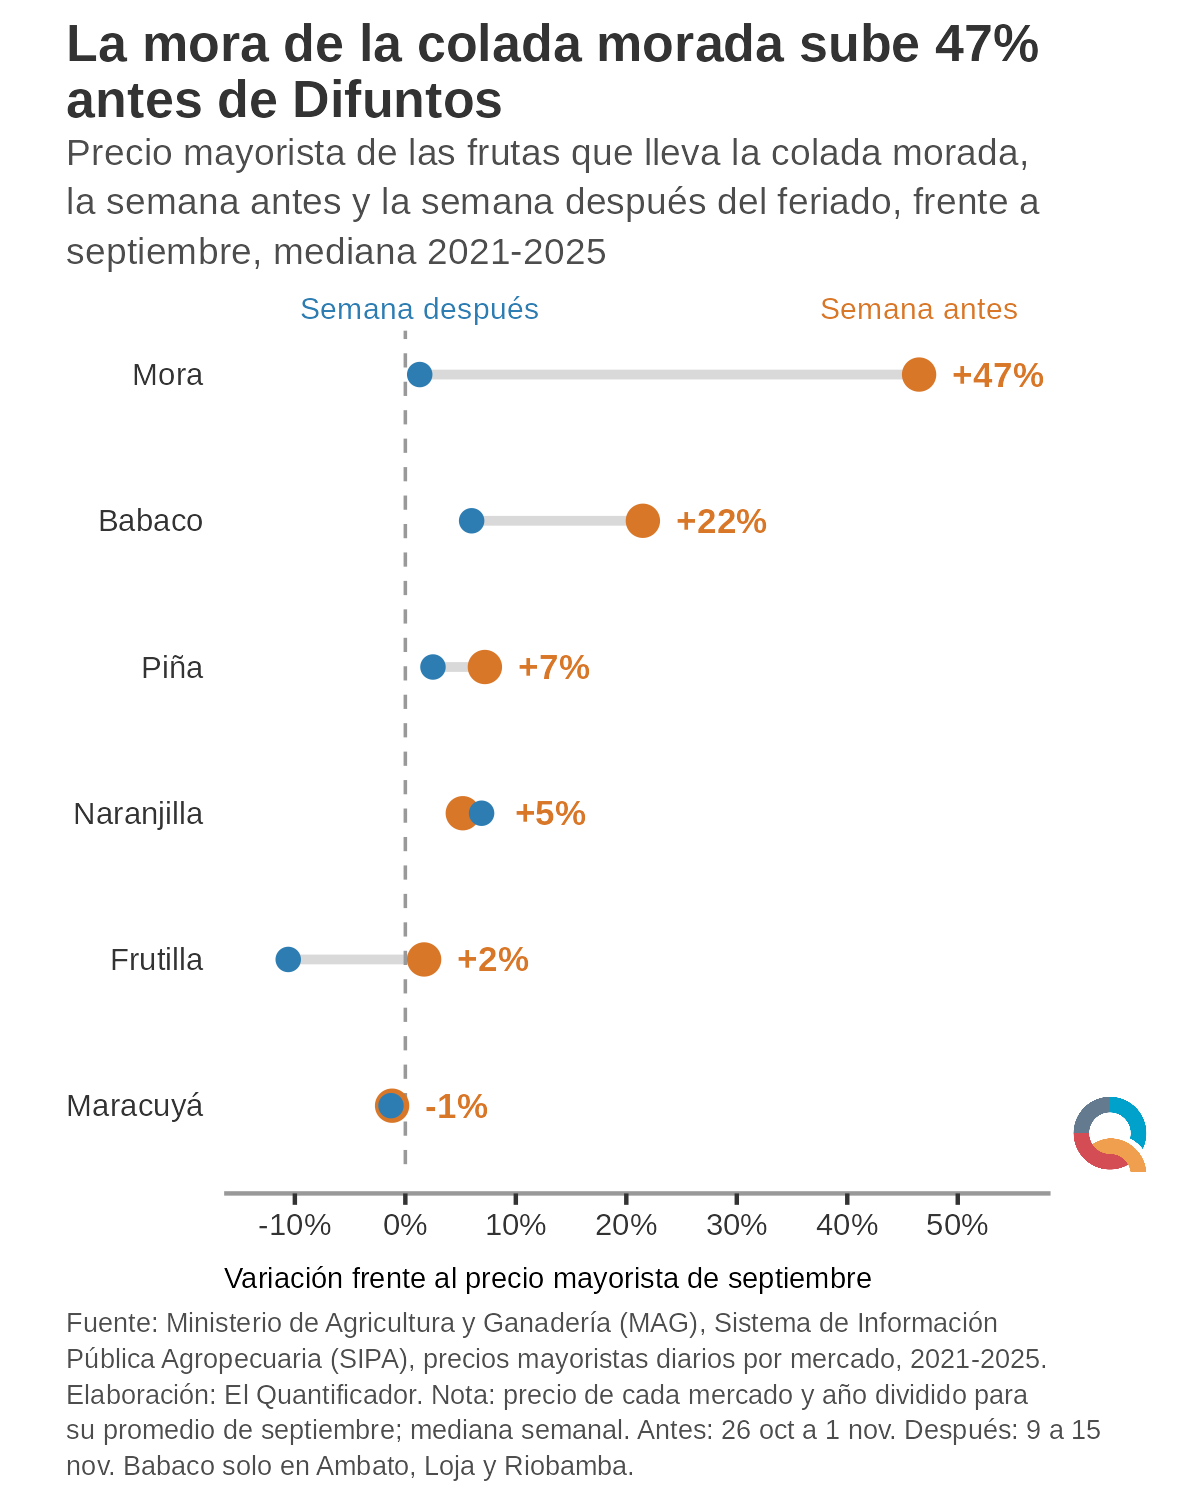
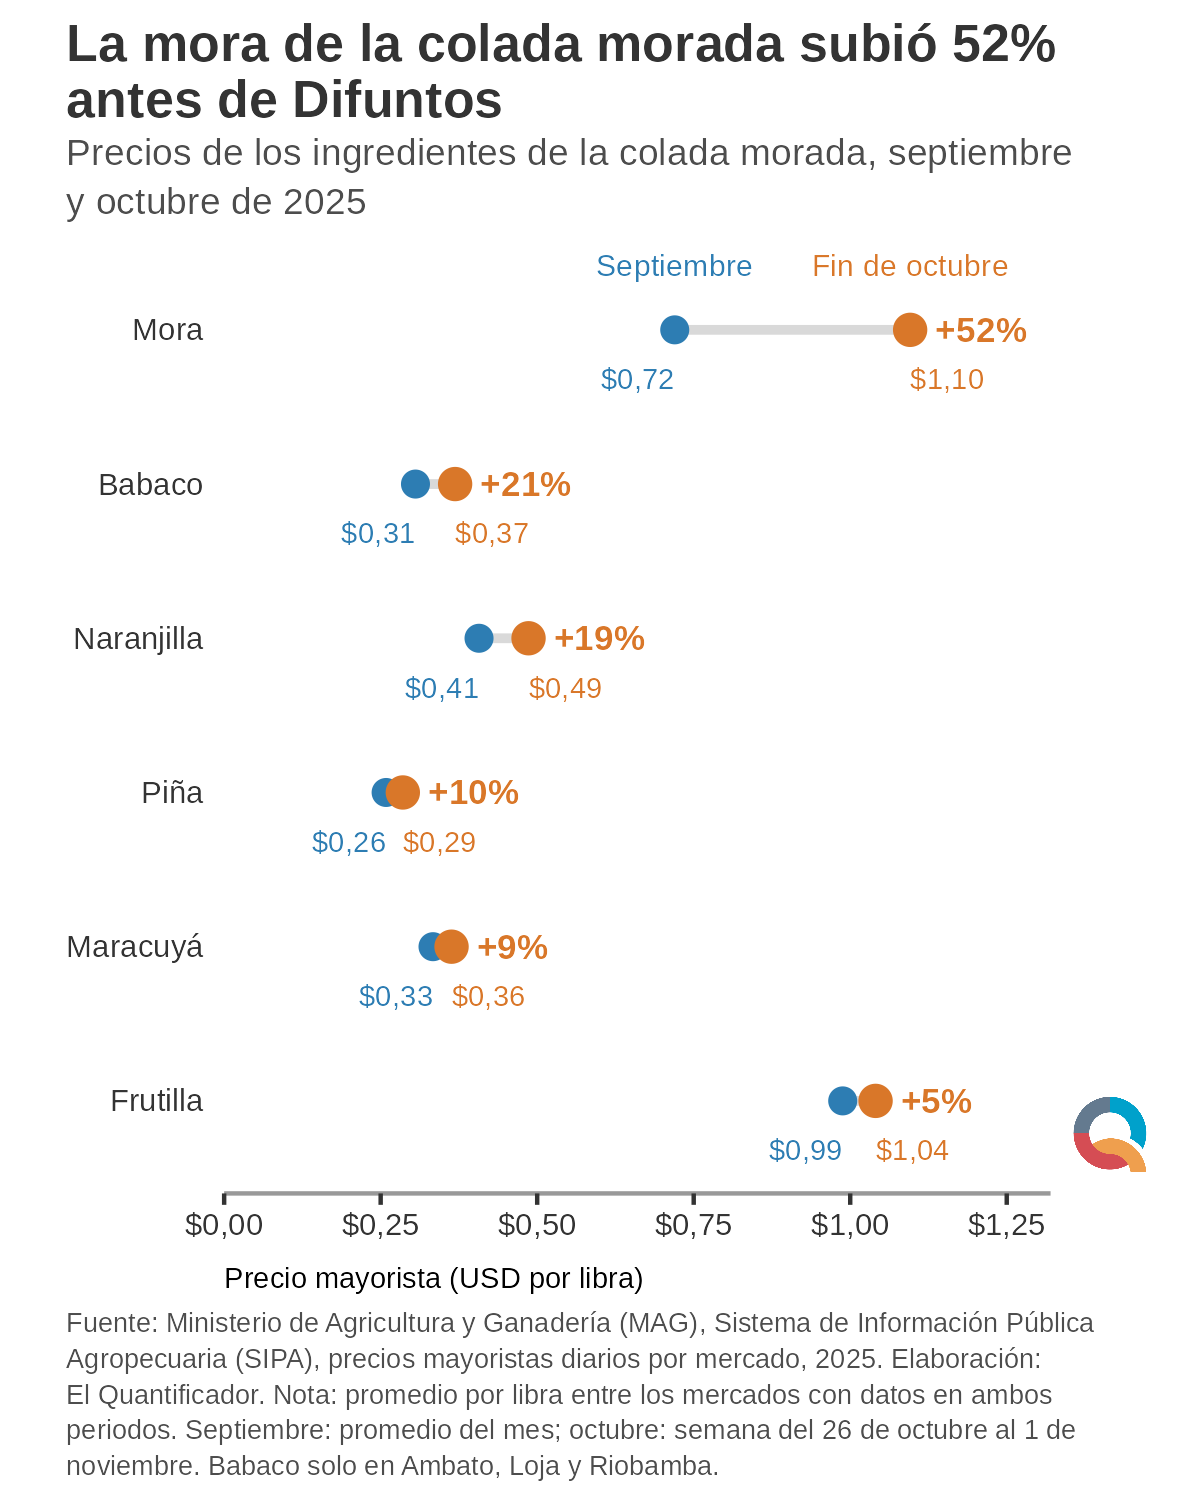
52_b: precios en dólares por libra, septiembre vs. fin de octubre de 2025
Claude-Session: https://claude.ai/code/session_01MVqtYLyfFuBw18yHFufz3P

diff --git a/data/sources/colada_morada.md b/data/sources/colada_morada.md
@@ -37,16 +37,27 @@ Costo por litro de colada morada hecha en casa y comprada en panadería.
 
 El gráfico muestra la más barata, la mediana y la más cara. Los precios en apps de reparto pueden incluir recargo.
 
-## `sipa_semana_difuntos_2021_2025.csv` (gráfico 52_b)
+## `sipa_precios_sep_oct_2025.csv` (gráfico 52_b)
 
-**Proveedor:** Ministerio de Agricultura y Ganadería (MAG), Sistema de Información Pública Agropecuaria (SIPA), precios mayoristas diarios por mercado. Compilación diaria del repositorio público `alexeperez/precios-agro-ecuador`, desde enero de 2021.
+**Proveedor:** Ministerio de Agricultura y Ganadería (MAG), Sistema de Información Pública Agropecuaria (SIPA), precios mayoristas diarios por mercado. Compilación diaria del repositorio público `alexeperez/precios-agro-ecuador`.
 
 **Productos:** mora de Castilla (251), babaco (275), piña (270), naranjilla híbrida (266), frutilla (248) y maracuyá (263).
 
 **Cálculo:**
 
-1. Para cada producto, mercado y año (2021-2025), cada precio diario por kilo se divide para el promedio de septiembre de ese mercado y año.
-2. Se toma la mediana de esa razón en la semana antes del feriado (26 de octubre a 1 de noviembre) y en la semana del 9 al 15 de noviembre.
-3. `antes` y `despues` son esa mediana menos 1.
+1. Para cada producto y mercado, se promedia el precio por kilo de septiembre de 2025 y el de la semana del 26 de octubre al 1 de noviembre de 2025.
+2. Se conservan solo los mercados con datos en ambos periodos.
+3. Se promedian los mercados y se convierte a dólares por libra (1 kg = 2,20462 lb). `cambio` es la variación entre ambos promedios.
 
-La mora subió la semana previa en todos los años: +46% (2021), +37% (2022), +44% (2023), +16% (2024) y +79% (2025). El babaco solo se registra en Ambato, Loja y Riobamba.
+| Fruta | Mercados | Septiembre (USD/lb) | Fin de octubre (USD/lb) | Cambio |
+|---|---|---|---|---|
+| Mora | 10 | 0,72 | 1,10 | +52% |
+| Babaco | 3 | 0,31 | 0,37 | +21% |
+| Naranjilla | 11 | 0,41 | 0,49 | +19% |
+| Piña | 7 | 0,26 | 0,29 | +10% |
+| Maracuyá | 13 | 0,33 | 0,36 | +9% |
+| Frutilla | 10 | 0,99 | 1,04 | +5% |
+
+Se usa 2025 porque los datos de octubre de 2026 están incompletos: la mora solo tiene un mercado y el babaco y la piña no tienen registros ese mes.
+
+Contexto adicional: con la mediana de 2021 a 2025, la mora sube cada año la semana previa al feriado (+46% en 2021, +37% en 2022, +44% en 2023, +16% en 2024 y +79% en 2025, frente a su promedio de septiembre por mercado).

diff --git a/data/sources/README.md b/data/sources/README.md
@@ -79,7 +79,7 @@ Las fichas `.md` de cada fuente documentan la version, el archivo interno utiliz
 | PISA Ecuador, PISA-D 2017 y PISA 2025 | `pisa_ecuador/pisa_ecuador_mean_scores.csv`, `pisa_ecuador/pisa_2025_tables_ib1_2a_36_38.xlsx`, `pisa_ecuador/pisa_participation_by_cycle.xlsx` | Usado en `clean_pisa_ecuador_puntajes.R` y `plot_45_pisa_ecuador_puntajes.R` | `pisa_ecuador.md` |
 | REMD 2020-2025, cohorte de matrimonios inscritos en 2020 | `remd_matrimonios/cohort_2020_survival_input.csv` | Usado en `clean_remd_matrimonios_hijos.R` y `plot_48_remd_matrimonios_hijos.R` | `remd_matrimonios_hijos.md` |
 | Balance Nacional de Energía Eléctrica, corte a julio de 2026 | `BNEE_julio_2026.xls` | Usado en `clean_bnee_arconel_sankey_corte_2026_07.R` | `bnee_arconel_sankey_corte_2026_07.md` |
-| Colada morada: costo por litro (octubre 2026) y precios mayoristas SIPA alrededor de Difuntos (2021-2025) | `colada_morada/costo_litro_colada_2026_10.csv`, `colada_morada/sipa_semana_difuntos_2021_2025.csv` | Usado en `plot_52_a_colada_hacer_comprar.R` y `plot_52_b_sipa_colada_difuntos.R` | `colada_morada.md` |
+| Colada morada: costo por litro (octubre 2026) y precios mayoristas SIPA de septiembre y fin de octubre (2025) | `colada_morada/costo_litro_colada_2026_10.csv`, `colada_morada/sipa_precios_sep_oct_2025.csv` | Usado en `plot_52_a_colada_hacer_comprar.R` y `plot_52_b_sipa_colada_difuntos.R` | `colada_morada.md` |
 
 ## Cobertura de documentacion
 

diff --git a/README.md b/README.md
@@ -82,7 +82,7 @@ Los ultimos graficos publicados son:
 - `50_mercado-laboral-pobreza-ecuador.png` (indicadores de mercado laboral y pobreza, ENEMDU 2026)
 - `51_balance-energetico-ecuador.png` (balance de fuentes y destinos del BNEE de ARCONEL, agosto de 2025 a julio de 2026)
 - `52_a_colada-hacer-comprar-ecuador.png` (costo por litro de colada morada hecha en casa y comprada en panadería, octubre de 2026; en espera del enlace de LinkedIn)
-- `52_b_sipa-colada-difuntos-ecuador.png` (precio mayorista de las frutas de la colada morada antes y después de Difuntos, SIPA 2021-2025; en espera del enlace de LinkedIn)
+- `52_b_sipa-colada-difuntos-ecuador.png` (precio mayorista por libra de las frutas de la colada morada, septiembre y fin de octubre de 2025, SIPA; en espera del enlace de LinkedIn)
 
 En preparacion (borradores sin numero hasta su publicacion):
 
